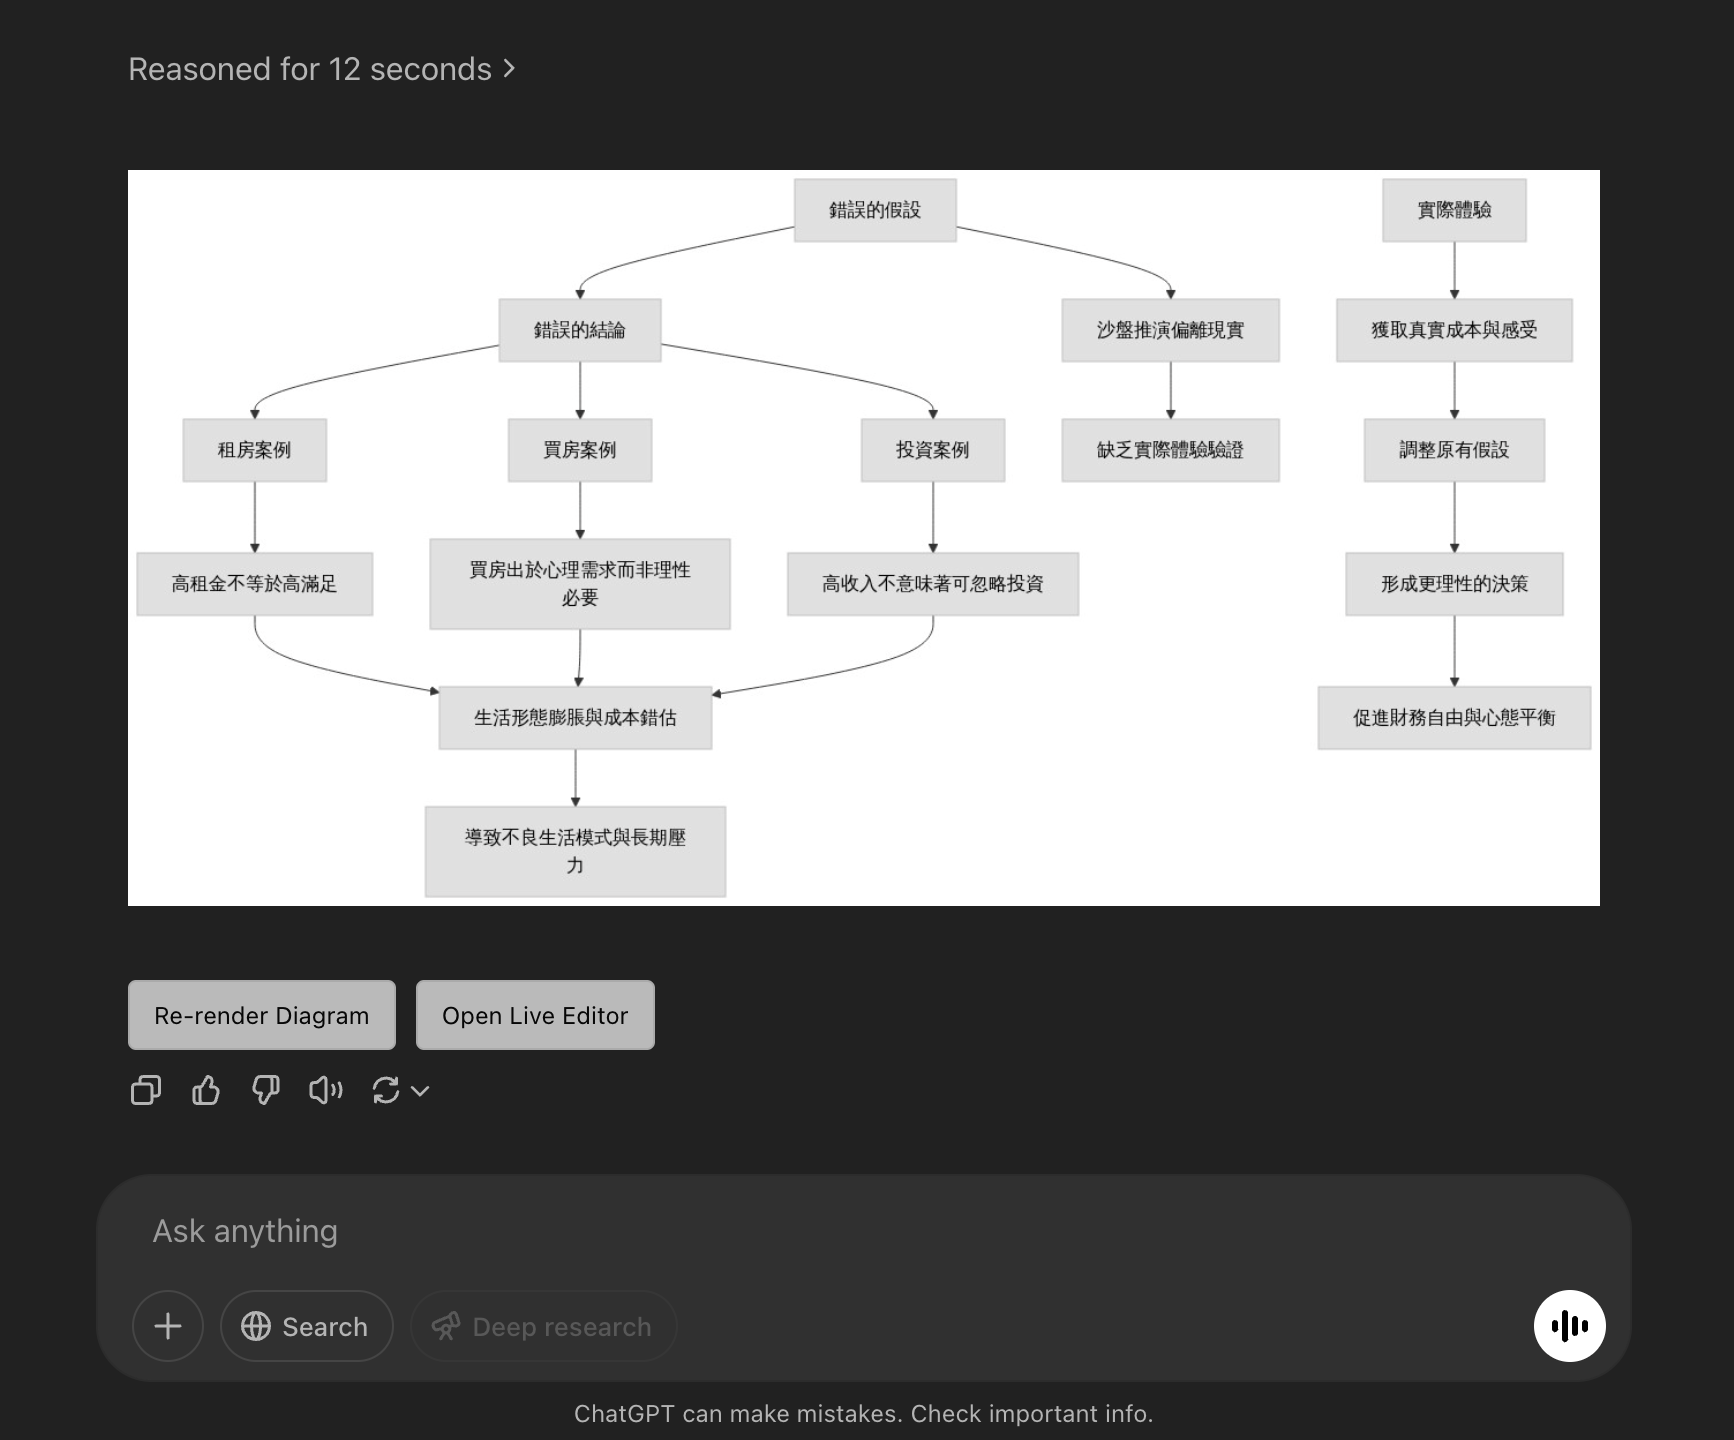
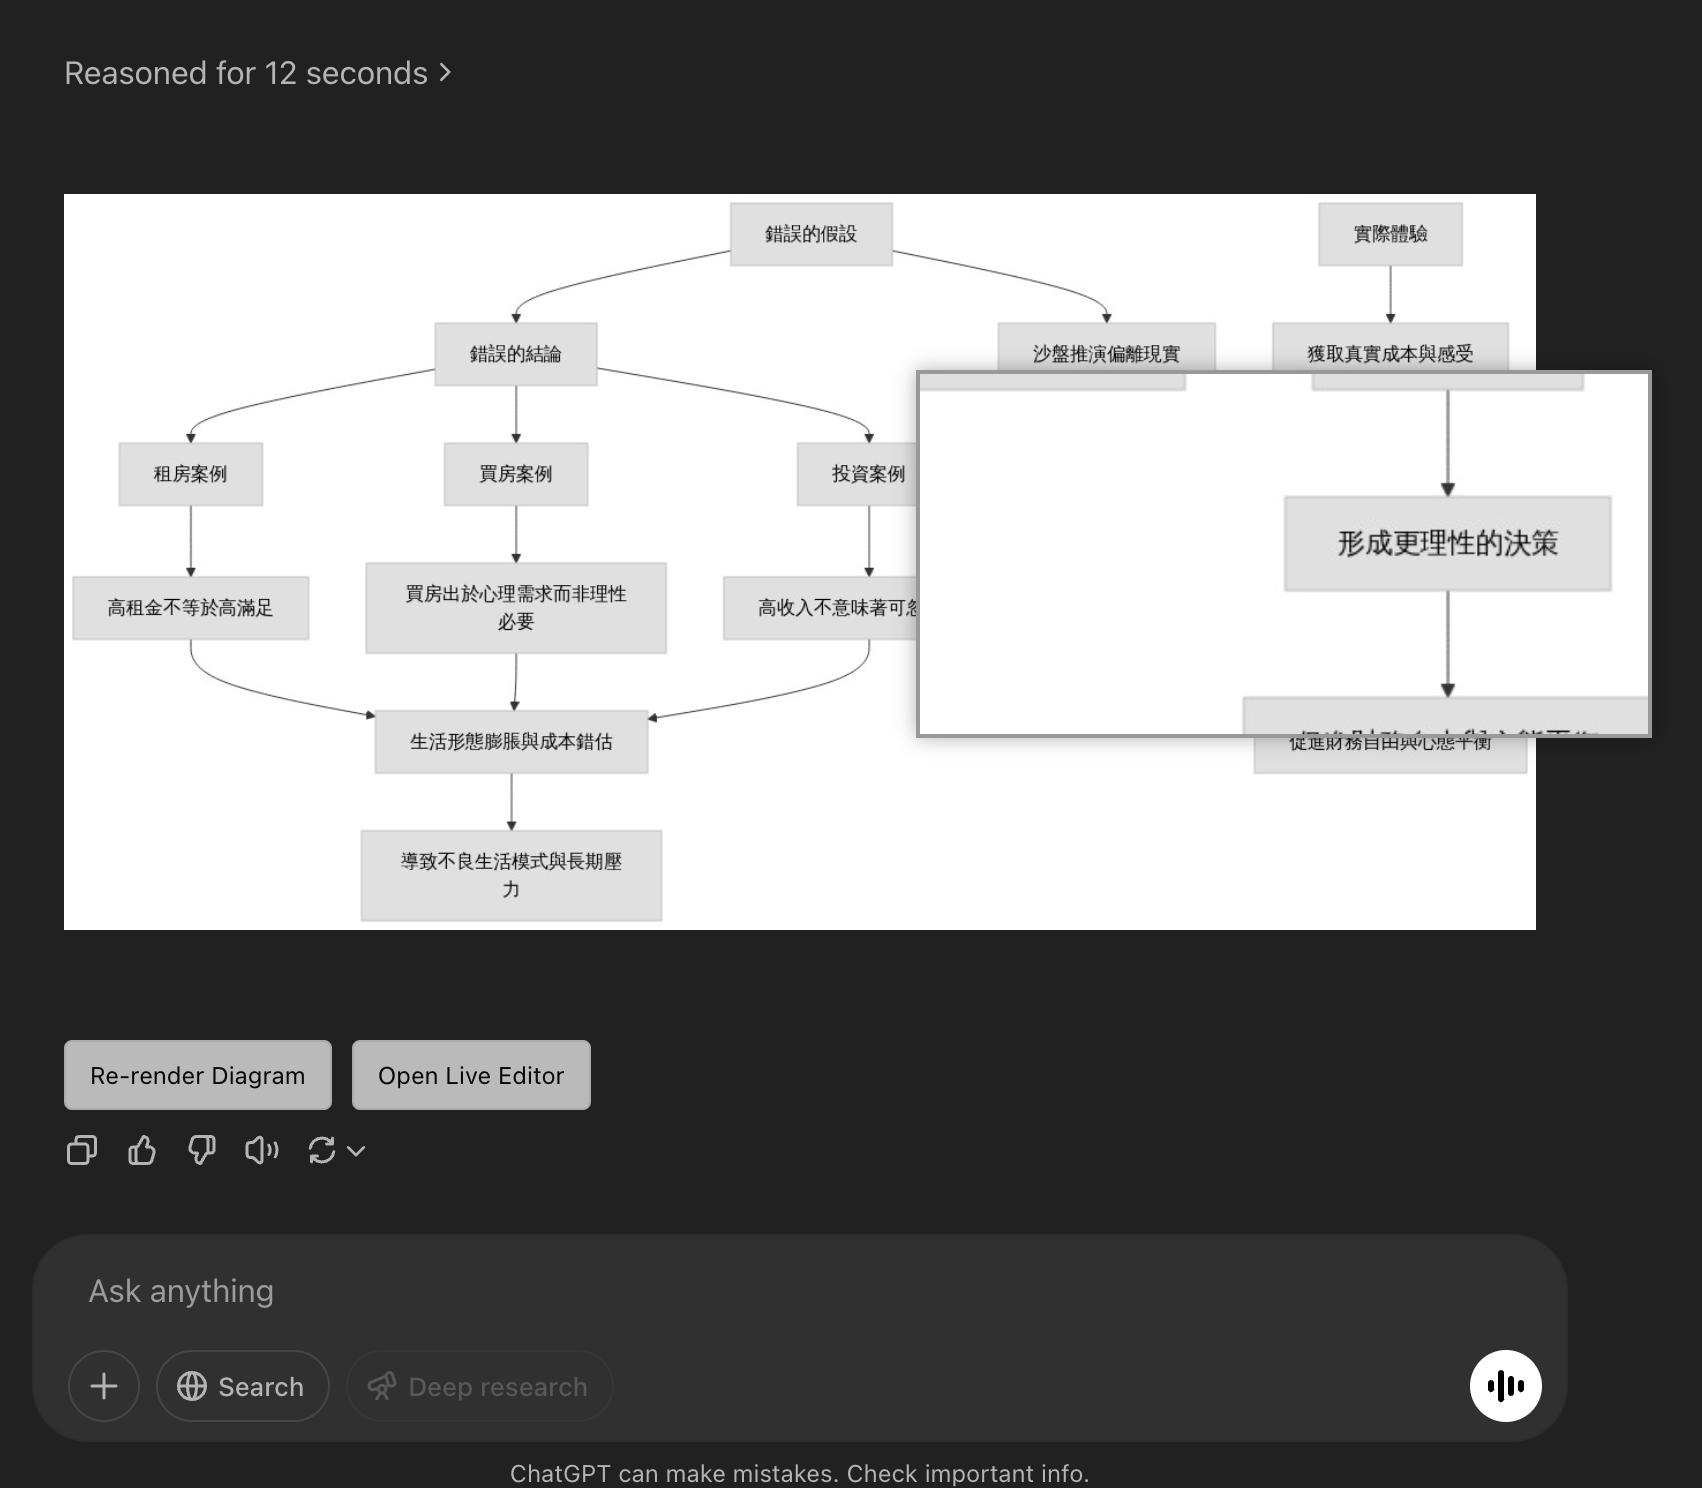
添加放大鏡功能說明並更新相關檔案

diff --git a/injected.js b/injected.js
@@ -48,6 +48,49 @@
       background-color: #f8d7da;
       color: #721c24;
     }
+    
+    /* 放大鏡樣式 */
+    .magnifier-glass {
+      position: absolute;
+      border: 2px solid #999;
+      border-radius: 0;
+      cursor: none;
+      width: 50%;
+      height: 50%;
+      display: none;
+      background-repeat: no-repeat;
+      z-index: 1000;
+      box-shadow: 0 0 10px rgba(0,0,0,0.3);
+      pointer-events: none; /* 防止放大鏡阻擋滑鼠事件 */
+      background-color: white; /* 確保背景不透明 */
+    }
+    
+    /* 圖片容器 */
+    .mermaid-img-container {
+      position: relative;
+      display: inline-block;
+      max-width: 100%;
+    }
+    
+    /* 圖片樣式 */
+    .mermaid-img {
+      cursor: zoom-in;
+    }
+    
+    /* 放大鏡開關按鈕 */
+    .toggle-magnifier {
+      background-color: #e0e0e0;
+      border-color: #ccc;
+    }
+    .toggle-magnifier.active {
+      background-color: #c0c0c0;
+      border-color: #999;
+    }
+    
+    /* 放大鏡啟用時的游標樣式 */
+    .magnifier-active {
+      cursor: crosshair;
+    }
   `;
   document.head.appendChild(styleEl);
 
@@ -102,16 +145,27 @@
     };
     
     try {
+      // 使用快取避免重複編碼
+      if (window._mermaidCache && window._mermaidCache[mermaidCode]) {
+        return window._mermaidCache[mermaidCode];
+      }
+      
       const jsonStr = JSON.stringify(payload);
       const jsonUint8 = new TextEncoder().encode(jsonStr);
       const compressed = pako.deflate(jsonUint8);
       const binaryStr = Array.from(compressed)
         .map(byte => String.fromCharCode(byte))
         .join('');
-      return btoa(binaryStr)
+      const result = btoa(binaryStr)
         .replace(/\+/g, '-')
         .replace(/\//g, '_')
         .replace(/=+$/, '');
+      
+      // 儲存到快取
+      if (!window._mermaidCache) window._mermaidCache = {};
+      window._mermaidCache[mermaidCode] = result;
+      
+      return result;
     } catch (error) {
       console.warn('編碼 Mermaid 代碼時出錯:', error);
       return '';
@@ -216,6 +270,7 @@
         imgElem.alt = "Mermaid Diagram";
         imgElem.style.display = 'block';
         imgElem.style.maxWidth = '100%';
+        imgElem.className = 'mermaid-img';
         
         // 圖片錯誤處理
         imgElem.onerror = function() {
@@ -228,7 +283,142 @@
           container.insertBefore(errorMsg, container.firstChild);
         };
         
-        container.appendChild(imgElem);
+        // 創建圖片容器並添加放大鏡功能
+        const imgContainer = document.createElement('div');
+        imgContainer.className = 'mermaid-img-container';
+        imgContainer.appendChild(imgElem);
+        
+        // 創建放大鏡元素
+        const magnifier = document.createElement('div');
+        magnifier.className = 'magnifier-glass';
+        imgContainer.appendChild(magnifier);
+        
+        // 放大鏡配置和狀態管理
+        const magnifierConfig = {
+          active: false,
+          sizeRatio: 0.5,  // 放大鏡尺寸為圖片的50%
+          zoomLevel: 1.5,  // 放大倍率
+          
+          // 更新放大鏡大小和設置
+          updateSize: function(rect) {
+            // 根據圖片尺寸設置放大鏡大小
+            magnifier.style.width = (rect.width * this.sizeRatio) + 'px';
+            magnifier.style.height = (rect.height * this.sizeRatio) + 'px';
+            
+            if (this.active) {
+              // 計算放大後的圖片尺寸
+              const zoomedWidth = rect.width * this.zoomLevel;
+              const zoomedHeight = rect.height * this.zoomLevel;
+              
+              // 設置背景尺寸
+              magnifier.style.backgroundImage = `url(${imgElem.src})`;
+              magnifier.style.backgroundSize = `${zoomedWidth}px ${zoomedHeight}px`;
+            }
+          },
+          
+          // 更新放大鏡位置和背景
+          updatePosition: function(e, rect) {
+            if (!this.active) return;
+            
+            // 獲取鼠標相對於圖片的坐標
+            const x = e.clientX - rect.left;
+            const y = e.clientY - rect.top;
+            
+            // 獲取放大鏡尺寸
+            const magWidth = magnifier.offsetWidth;
+            const magHeight = magnifier.offsetHeight;
+            
+            // 放置在鼠標位置，中心對準鼠標
+            const magX = x - magWidth / 2;
+            const magY = y - magHeight / 2;
+            magnifier.style.left = magX + 'px';
+            magnifier.style.top = magY + 'px';
+            
+            // 計算放大後的圖片尺寸
+            const zoomedWidth = rect.width * this.zoomLevel;
+            const zoomedHeight = rect.height * this.zoomLevel;
+            
+            // 設置放大鏡背景
+            magnifier.style.backgroundImage = `url(${imgElem.src})`;
+            magnifier.style.backgroundSize = `${zoomedWidth}px ${zoomedHeight}px`;
+            
+            // 計算背景位置，確保鼠標位置在放大倍數下正確對應
+            // 放大鏡背景需要向反方向移動，以確保放大鏡中心對應鼠標位置
+            const bgX = -(x * this.zoomLevel - magWidth / 2);
+            const bgY = -(y * this.zoomLevel - magHeight / 2);
+            
+            magnifier.style.backgroundPosition = `${bgX}px ${bgY}px`;
+          },
+          
+          // 切換放大鏡狀態
+          toggle: function() {
+            this.active = !this.active;
+            const rect = imgElem.getBoundingClientRect();
+            
+            if (this.active) {
+              this.updateSize(rect);
+              magnifier.style.display = 'block';
+              imgElem.style.cursor = 'crosshair';
+            } else {
+              magnifier.style.display = 'none';
+              imgElem.style.cursor = 'zoom-in';
+            }
+          }
+        };
+        
+        // 確保圖片加載後配置放大鏡
+        imgElem.onload = function() {
+          const rect = imgElem.getBoundingClientRect();
+          
+          // 根據圖片尺寸設置放大鏡大小
+          magnifier.style.width = (rect.width * magnifierConfig.sizeRatio) + 'px';
+          magnifier.style.height = (rect.height * magnifierConfig.sizeRatio) + 'px';
+          
+          // 計算放大後的圖片尺寸
+          if (magnifierConfig.active) {
+            const zoomedWidth = rect.width * magnifierConfig.zoomLevel;
+            const zoomedHeight = rect.height * magnifierConfig.zoomLevel;
+            
+            magnifier.style.backgroundImage = `url(${imgElem.src})`;
+            magnifier.style.backgroundSize = `${zoomedWidth}px ${zoomedHeight}px`;
+            
+            // 初始設置背景位置在中心
+            const magWidth = magnifier.offsetWidth;
+            const magHeight = magnifier.offsetHeight;
+            const centerX = rect.width / 2;
+            const centerY = rect.height / 2;
+            
+            const bgX = -(centerX * magnifierConfig.zoomLevel - magWidth / 2);
+            const bgY = -(centerY * magnifierConfig.zoomLevel - magHeight / 2);
+            
+            magnifier.style.backgroundPosition = `${bgX}px ${bgY}px`;
+          }
+        };
+        
+        // 處理滑鼠移動
+        function handleMouseMove(e) {
+          const rect = imgElem.getBoundingClientRect();
+          magnifierConfig.updatePosition(e, rect);
+        }
+        
+        // 點擊圖片切換放大鏡
+        imgElem.addEventListener('click', function() {
+          magnifierConfig.toggle();
+        });
+        
+        imgElem.addEventListener('mousemove', handleMouseMove);
+        
+        imgElem.addEventListener('mouseenter', function() {
+          if (magnifierConfig.active) {
+            magnifier.style.display = 'block';
+          }
+        });
+        
+        imgElem.addEventListener('mouseleave', function() {
+          magnifier.style.display = 'none';
+        });
+        
+        container.appendChild(imgContainer);
         
         // 添加按鈕容器
         const buttonContainer = document.createElement('div');

diff --git a/README.md b/README.md
@@ -11,6 +11,7 @@
 - 在網頁中增強 Mermaid 圖表的顯示
 - 支援 Mermaid 語法的即時渲染
 - 提供更好的使用者體驗
+- 圖表放大鏡功能，點擊圖表可以啟用1.5倍放大鏡查看細節
 
 ## 檔案說明
 
@@ -27,9 +28,17 @@
 3. 啟用開發者模式
 4. 選擇「載入未封裝的擴充功能」並選取此專案資料夾
 
+## 使用說明
+
+1. 安裝擴充功能後，網頁上的 Mermaid 圖表會自動渲染
+2. 點擊圖表可以啟用放大鏡功能，再次點擊關閉
+3. 滑鼠在圖表上移動時，放大鏡會跟隨顯示細節內容
+4. 放大鏡大小為圖片的50%，提供1.5倍放大效果
+5. 放大鏡中心顯示的內容與滑鼠位置精確對應
+
 ## 開發
 
-可依照需求修改 `content.js` 和 `injected.js` 檔案來自定義功能。
+可依照需求修改 `content.js` 和 `injected.js` 檔案來自定義功能。放大鏡的尺寸和放大倍率可在 `injected.js` 中調整。
 
 ## 授權
 
